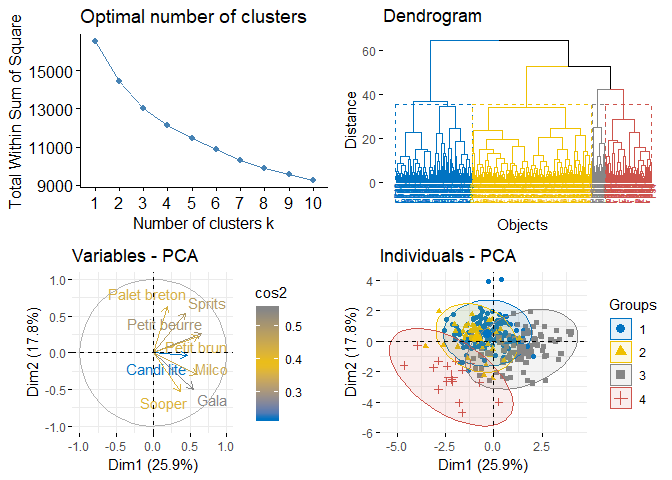
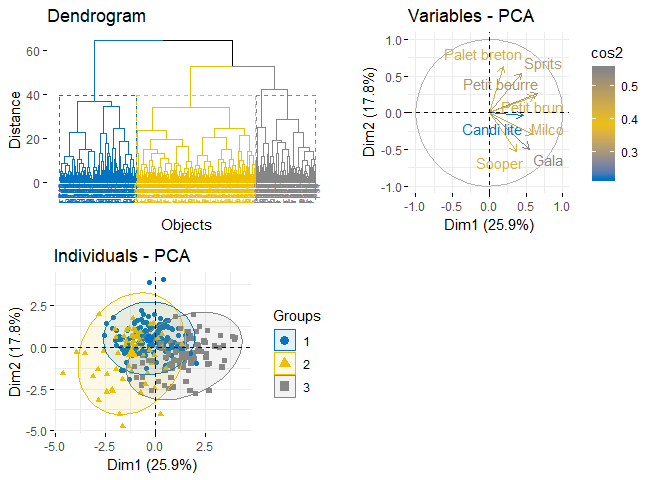
Update README

diff --git a/README.md b/README.md
@@ -26,14 +26,14 @@ You can find below an overall look at how ClusteringR can be useful for your sen
 ``` r
 library(ClusteringR)
 # Create a clustering object  -------------------------------------------------
-cl <- Clustering(t(hedo),ClustMeth='hierarchical',k=4,Hdismethod='euclidean',Hmethod="ward.D2",
-                    Graph=F,VarCart=F,IndCart=F,ElbowP=F )
+cl <- Clustering(t(hedo),ClustMeth='hierarchical',k=3,Hdismethod='euclidean',Hmethod="ward.D2",
+                    Graph=F,VarCart=F,IndCart=F )
 # get clusters
 clusters=cl$classes
 
 #Plot of elbow method , dendrogram , variables representation and individuals
 
-plot_grid(cl$ElbowP, cl$dendrogram, cl$VarCart, cl$IndCart, hjust = 1, vjust = 1,
+plot_grid(cl$dendrogram, cl$VarCart, cl$IndCart, hjust = 1, vjust = 1,
           scale = c(1, 1, 1, 1))
 ```
 
